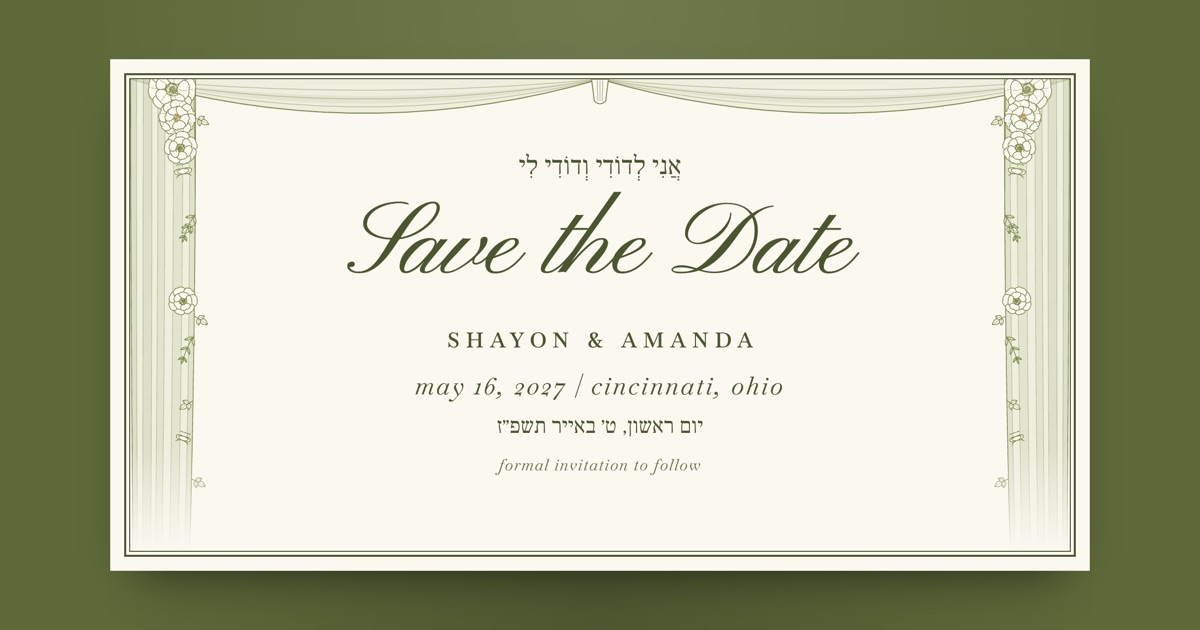
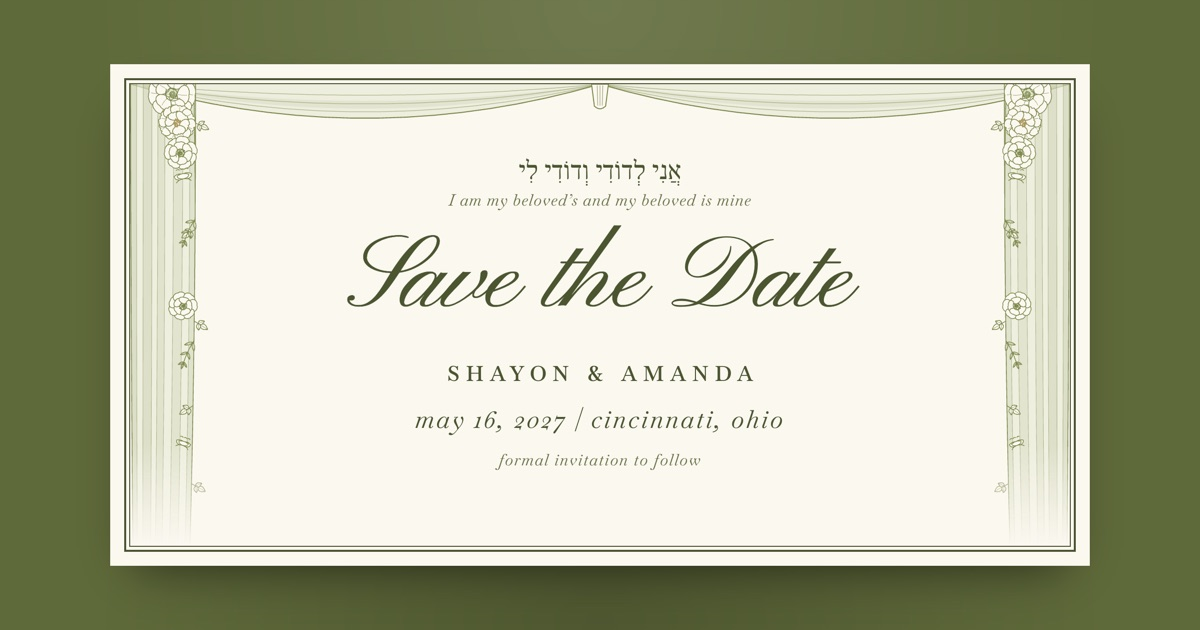
Hebrew: keep only the verse, with an English translation
- אֲנִי לְדוֹדִי וְדוֹדִי לִי stays at the top with 'I am my beloved's and my beloved is mine' beneath
- Remove the Hebrew date (it belongs on the formal invitation)
- Re-render share images

diff --git a/index.html b/index.html
@@ -13,19 +13,19 @@
 <meta property="og:type" content="website" />
 <meta property="og:url" content="https://shayon297.github.io/save-the-date/" />
 <meta property="og:site_name" content="Shayon &amp; Amanda" />
-<meta property="og:image" content="https://shayon297.github.io/save-the-date/assets/og.jpg?v=6" />
+<meta property="og:image" content="https://shayon297.github.io/save-the-date/assets/og.jpg?v=7" />
 <meta property="og:image:width" content="1200" />
 <meta property="og:image:height" content="630" />
-<meta property="og:image:alt" content="Save the Date — Shayon Sengupta and Amanda Young, May 16, 2027, Cincinnati Art Museum" />
+<meta property="og:image:alt" content="Save the Date — Shayon Sengupta and Amanda Young, May 16, 2027, Cincinnati, Ohio. Formal invitation to follow." />
 <meta name="twitter:card" content="summary_large_image" />
 <meta name="twitter:title" content="Save the Date — Shayon &amp; Amanda" />
 <meta name="twitter:description" content="Sunday, May 16, 2027 · Cincinnati Art Museum · Cincinnati, Ohio" />
-<meta name="twitter:image" content="https://shayon297.github.io/save-the-date/assets/og.jpg?v=6" />
+<meta name="twitter:image" content="https://shayon297.github.io/save-the-date/assets/og.jpg?v=7" />
 
 <link rel="preconnect" href="https://fonts.googleapis.com">
 <link rel="preconnect" href="https://fonts.gstatic.com" crossorigin>
 <link href="https://fonts.googleapis.com/css2?family=Baskervville:ital,wght@0,400;0,500;0,600;1,400&family=Frank+Ruhl+Libre:wght@400;500&family=Pinyon+Script&display=swap" rel="stylesheet">
-<link rel="stylesheet" href="styles.css?v=33" />
+<link rel="stylesheet" href="styles.css?v=35" />
 <script>
   // ?preview=email / ?preview=og switch the page into fixed layouts used to render the share images
   var pv = new URLSearchParams(location.search).get("preview");
@@ -52,10 +52,10 @@
       <!-- HEADER — laid out after Minted's "museo" save the date -->
       <header class="hero">
         <p class="hebrew hebrew-verse" lang="he" dir="rtl">אֲנִי לְדוֹדִי וְדוֹדִי לִי</p>
+        <p class="verse-en">I am my beloved&rsquo;s and my beloved is mine</p>
         <h1 class="script-title">Save the Date</h1>
         <p class="names-caps">Shayon <span class="amp">&amp;</span> Amanda</p>
         <p class="date-line"><span class="d">may 16, 2027</span><span class="bar"> | </span><span class="c">cincinnati, ohio</span></p>
-        <p class="hebrew hebrew-date" lang="he" dir="rtl">יום ראשון, ט׳ באייר תשפ״ז</p>
         <p class="hero-note">formal invitation to follow</p>
       </header>
 

diff --git a/styles.css b/styles.css
@@ -116,11 +116,15 @@ body{
 }
 .hebrew-verse{
   font-size: clamp(18px, 3vw, 22px);
-  margin: 0 0 6px;
+  margin: 0 0 2px;
 }
-.hebrew-date{
-  font-size: clamp(15px, 2.5vw, 18px);
-  margin: 8px 0 0;
+.verse-en{                  /* small translation under the Hebrew verse */
+  font-style: italic;
+  font-size: clamp(12px, 2vw, 13.5px);
+  letter-spacing: 0.04em;
+  color: var(--ink-soft);
+  margin: 0 0 10px;
+  text-wrap: balance;
 }
 .hero-note{
   font-style: italic;
@@ -413,7 +417,7 @@ body{
 .preview-og .names-caps{ font-size: 21px; margin-bottom: 16px; }
 .preview-og .date-line{ font-size: 25px; }
 .preview-og .hebrew-verse{ font-size: 26px; }
-.preview-og .hebrew-date{ font-size: 22px; margin-top: 10px; }
+.preview-og .verse-en{ font-size: 16px; margin-bottom: 12px; }
 .preview-og .drape-side{ overflow: hidden; -webkit-mask-image: linear-gradient(#000 78%, transparent); mask-image: linear-gradient(#000 78%, transparent); }
 .preview-og .drape-side img{ height: 1300px; }
 

diff --git a/email.html b/email.html
@@ -22,7 +22,7 @@
         <tr>
           <td align="center" style="padding:0;">
             <a href="https://shayon297.github.io/save-the-date/" style="text-decoration:none;">
-              <img src="https://shayon297.github.io/save-the-date/assets/card-email.jpg?v=4" width="600" alt="Save the Date — Shayon Sengupta and Amanda Young, Sunday, May 16, 2027, Cincinnati Art Museum" style="display:block;width:100%;max-width:600px;height:auto;border:0;box-shadow:0 18px 40px -22px rgba(0,0,0,0.45);" />
+              <img src="https://shayon297.github.io/save-the-date/assets/card-email.jpg?v=5" width="600" alt="Save the Date — Shayon Sengupta and Amanda Young, Sunday, May 16, 2027, Cincinnati Art Museum" style="display:block;width:100%;max-width:600px;height:auto;border:0;box-shadow:0 18px 40px -22px rgba(0,0,0,0.45);" />
             </a>
           </td>
         </tr>

diff --git a/CLAUDE.md b/CLAUDE.md
@@ -72,6 +72,8 @@ and a phone width (375px) before calling a change done.
 - Direction: classical Greek / Roman in spirit (restraint, symmetry, proportion),
   not literal. Script is used only for "Save the Date", the closing line and the
   monogram; section titles are Baskervville spaced capitals.
+- Hebrew: only the verse אֲנִי לְדוֹדִי וְדוֹדִי לִי at the top, with a small English
+  translation under it. No Hebrew date (that belongs on the formal invitation).
 - The engagement photo sits in an arch-topped frame under the header.
 - No ornamental dividers, as on museo: sections are separated by space and
   the change of type (script, spaced capitals, lowercase italics).
